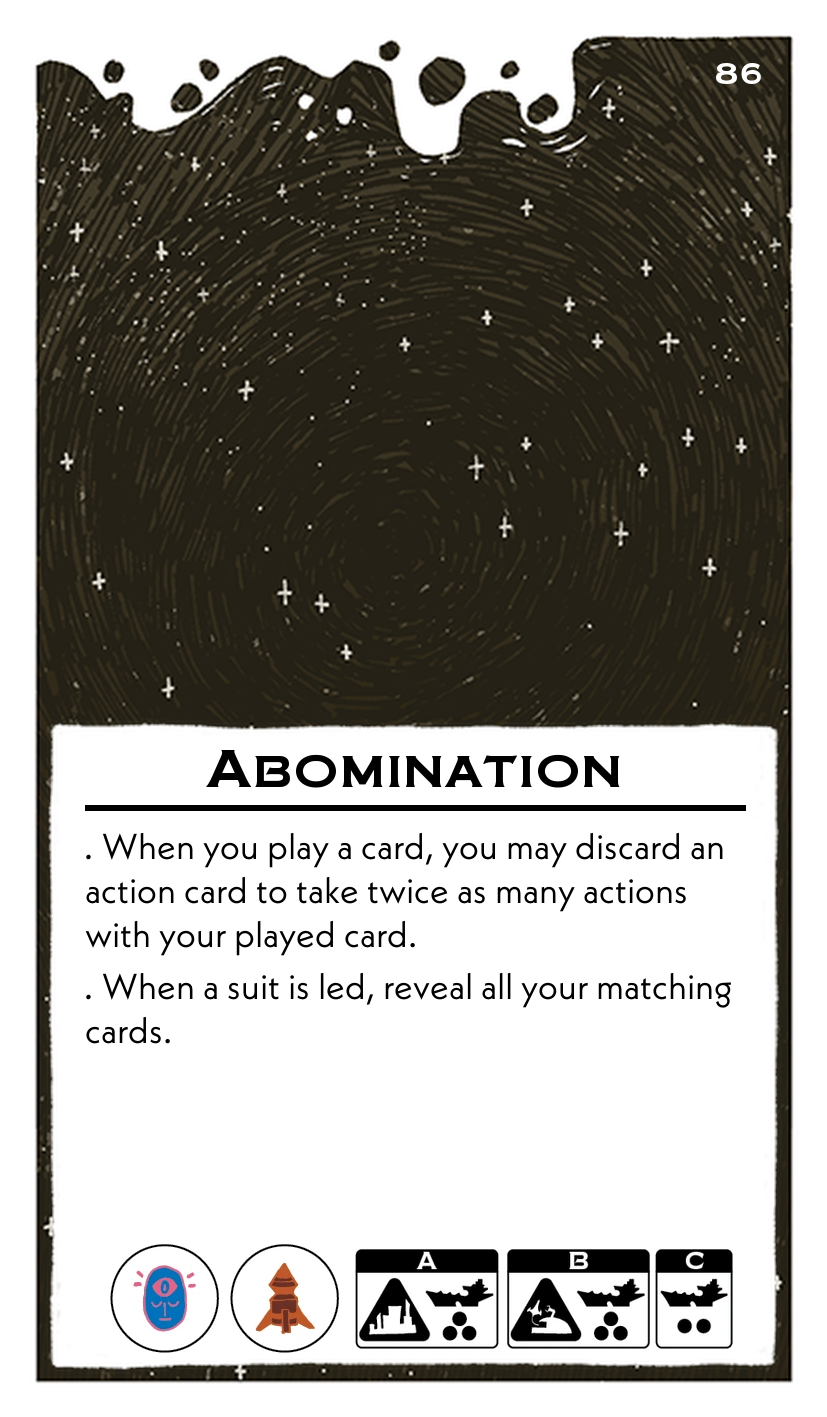
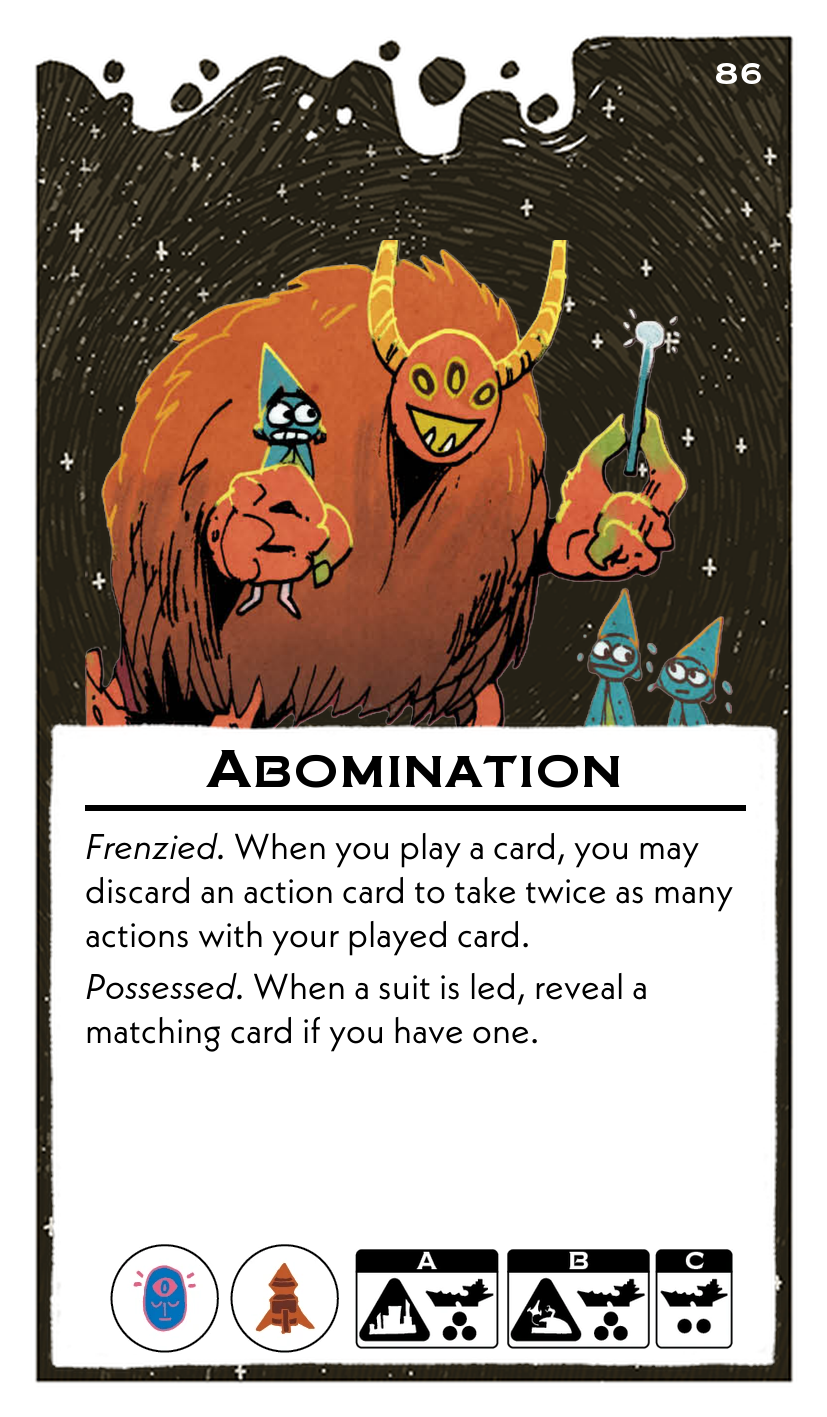
crusader

Changed region(s): [[0.0907, 0.1553, 0.8767, 0.5279], [0.0907, 0.59, 0.8767, 0.7452]]

diff --git a/scripts/leadersFormatted.py b/scripts/leadersFormatted.py
@@ -1308,8 +1308,8 @@ leaders = [
     {
         "name": "Abomination",
         "abilities": (
-            "*.* When you play a card, you may discard an action card to take twice as many actions with your played card.\n"
-            "*.* When a suit is led, reveal all your matching cards."
+            "*Frenzied.* When you play a card, you may discard an action card to take twice as many actions with your played card.\n"
+            "*Possessed.* When a suit is led, reveal a matching card if you have one."
         ),
         "resources": ["Psionic", "Weapon"],
         "setup": {
@@ -1319,26 +1319,26 @@ leaders = [
         },
         "body_font_size": 18
     },
-    # # Crusader
-    # {
-    #     "name": "Crusader",
-    #     "abilities": (
-    #         "*Zealous.* When you destroy a building, also **secure** a matching card matching its sytem from the Court with no Rival agents.\n"
-    #         "*Dogmatic.* You cannot **influence** a card with no agents if a Rival can secure a card with any of your Loyal agents."
-    #     ),
-    #     "resources": ["Weapon", "Material"],
-    #     "setup": {
-    #         "A": {"ships": 3, "building": "city"},
-    #         "B": {"ships": 3, "building": "starport"},
-    #         "C": {"ships": 2, "building": "None"}
-    #     },
-    #     "body_font_size": 18
-    # },
+    # Crusader
+    {
+        "name": "Crusader",
+        "abilities": (
+            "*Zealous.* When you destroy a city, also **secure** any card matching that cities type with no agents on it.\n"
+            "*Dogmatic.* You cannot **influence** a card with no agents if a Rival can secure a card with any of your Loyal agents."
+        ),
+        "resources": ["Weapon", "Material"],
+        "setup": {
+            "A": {"ships": 3, "building": "city"},
+            "B": {"ships": 3, "building": "starport"},
+            "C": {"ships": 2, "building": "None"}
+        },
+        "body_font_size": 18
+    },
     # Phantom
     # {
     #     "name": "Phantom",
     #     "abilities": (
-    #         "*Phasing.* You ignore hits to move after; you may move as if undamaged after taking hits this turn.\n"
+    #         "*Phasing.* You ignore your hits to move after; you may move as if undamaged after taking hits this turn.\n"
     #         "*Unmoored.* At the end of the chapter, scrap 1 Loyal ship you control."
     #     ),
     #     "resources": ["Psionic", "Relic"],
